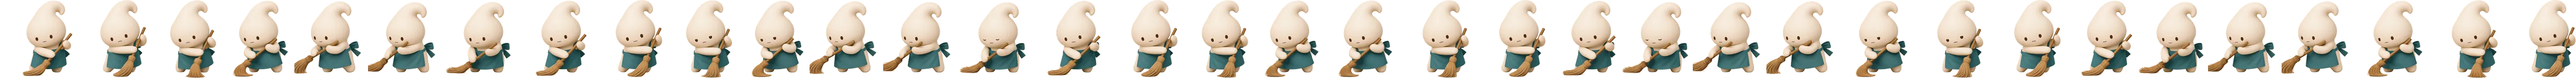
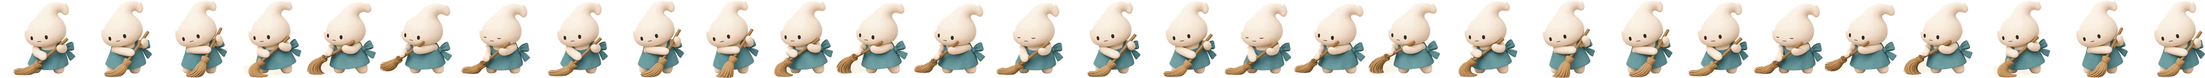
feat: switch the Kamisato mascot to the uncropped sweep animation
Key the background by the GIF's border palette so the bright head top is kept.

diff --git a/src/lib/mascot/assets.ts b/src/lib/mascot/assets.ts
@@ -2,8 +2,8 @@
 // まさゆきさんが地区ごとのしぐさを用意する（2026-11-15 は上郷だけ）。scripts/build-mascot.mjs と画面が使う
 export const MASCOT_DIR = "mascot";
 
-// frameStep：元のコマを何コマに1つ使うか（元は 70コマ・1コマ 80ミリ秒。2コマに1つで35コマ・約200KB。
-// 2026-11-15 の仮の値。まさゆきさんが 35コマと24コマを見比べて決める）
+// frameStep：元のコマを何コマに1つ使うか（上郷は元が 58コマ・1コマ 80ミリ秒。2コマに1つで29コマ・約125KB。
+// 2026-11-15 の仮の値。まさゆきさんが動きを見て決める）
 export const MASCOT_SOURCES = {
   // 上郷：石段をほうきで掃く（地区の目印の石段。くらしの絵の右上の石段に置く）
   "kamisato-sweep": { source: "kamisato-sweep.gif", frameStep: 2 },

diff --git a/src/lib/mascot/sprites.ts b/src/lib/mascot/sprites.ts
@@ -4,9 +4,9 @@ import type { MascotMotionId } from "./assets.ts";
 
 export const MASCOT_SPRITES: Record<MascotMotionId, { frameWidth: number; frameHeight: number; frames: number; frameMs: number }> = {
   "kamisato-sweep": {
-    "frameWidth": 150,
+    "frameWidth": 155,
     "frameHeight": 160,
-    "frames": 35,
+    "frames": 29,
     "frameMs": 160
   }
 };

diff --git a/docs/042_mascot.md b/docs/042_mascot.md
@@ -46,7 +46,8 @@
 
 ## 作ったもの（2026-11-15。上郷のくらし）
 
-- `npm run mascot`（`scripts/build-mascot.mjs`）：`assets/mascot/` の GIF の背景（白に近く黄みの少ない色）を、絵のふちから続くところだけ消し、残った小さな点を消し、全部のコマを同じ範囲で切り出して、横に1列に並べた WebP を `public/mascot/` に書く。大きさとコマ数は `src/lib/mascot/sprites.ts`。上郷は 35コマ・1コマ 150×160・147KB
+- `npm run mascot`（`scripts/build-mascot.mjs`）：`assets/mascot/` の GIF の背景（白に近く黄みの少ない色）を、絵のふちから続くところだけ消し、残った小さな点を消し、全部のコマを同じ範囲で切り出して、横に1列に並べた WebP を `public/mascot/` に書く。大きさとコマ数は `src/lib/mascot/sprites.ts`。上郷は 29コマ・1コマ 155×160・125KB。
+- 背景の消し方（2026-11-15 に差しかえた GIF で直した）：GIF は使う色が少なく、背景はちょうど5色で、頭のてっぺんの明るいところとほとんど同じ色だった。「白っぽい色」の幅で消すと頭まで消えるので、全部のコマのふちに出てくる色だけを背景の色としてふちからたどり、そのまわりのにじみ（背景に近い色）は背景から 14px までだけ消す。背景が一色でない（ふちの色が12色より多い）ときは止める
 - 画面の部品 `src/components/mascot/Mascot.tsx`：くらしの絵（`IllustratedScene`）の上、ピンより下に重ねる。置き場所は `src/lib/mascot/spots.ts`（動きが届いた地区だけ）。絵が小さいので、押せる範囲は絵に重ねた透明なボタンで 44px まで広げる。絵を読み終えるまで出さず（元の色が一瞬見えないように）、読めないとき（圏外でまだ端末にないなど）は出さない
 - `public/illust/` は `npm run illust` が一覧にないファイルを消すので、マスコットは別のフォルダ `public/mascot/` に置いた。Service Worker は生成AIの絵と同じく、使ったときに残す
 - 写真：`~/dear-life-screenshots/2026-11-15-042-mascot-kurashi/`（PC・スマホの春と冬、パレットを開いたところ）
@@ -55,15 +56,15 @@
 
 - [ ] （まさゆきさん）見本の絵が既存のキャラクターに似ていないかを確かめる（Claude が見た限りでは、はっきり似ているものは見つからなかった）
 - [ ] キャラクターの名前を付けるか決める（まさゆきさん。代替テキストやパレットの見出しに使う）
-- [ ] （まさゆきさん）4地区のしぐさのアニメーションを用意する（上の「用意してもらうときのお願い」のとおり。冬などの季節で変えるかもここで決める）→ 2026-11-15 に上郷（`kamisato-sweep.gif`）が届いた。鼎・伊賀良・中心市街地が残り
+- [ ] （まさゆきさん）4地区のしぐさのアニメーションを用意する（上の「用意してもらうときのお願い」のとおり。冬などの季節で変えるかもここで決める）→ 2026-11-15 に上郷（`kamisato-sweep.gif`）が届いた（同日、ほうきの先が切れない版に差しかえ）。鼎・伊賀良・中心市街地が残り
 - [×] 届いたアニメーションを画面用の形（背景を消し、コマを1枚にまとめた WebP）にする手順を作る（`npm run mascot`。2026-11-15。MP4 が届いたら変換の道具を入れる）
-- [ ] 表示する大きさと速さを決める（まさゆきさん確認。今は仮に 35コマ（2コマに1つ）・1コマ160ミリ秒、PC は絵の高さの6.5%（約50px）、スマホは6%（約28px））
+- [ ] 表示する大きさと速さを決める（まさゆきさん確認。今は仮に 29コマ（2コマに1つ）・1コマ160ミリ秒、PC は絵の高さの6.5%（約50px）、スマホは6%（約28px））
 - [×] エプロンの色を置きかえる仕組み（ふちの青緑も残さない。`src/lib/mascot/recolor.ts`。2026-11-15）
 - [ ] パレットの色の数・色を決める（まさゆきさん確認。今は仮に 青緑・赤・黄色・ピンク・紫・紺 の6色）
 - [×] 選んだ色を端末に残す（`dearlife:mascot-apron`。保存できない端末では開いているあいだだけ。2026-11-15）
 - [ ] くらしに置く場所を4地区×季節の絵ごとに決める（ピンと重ならない場所。まさゆきさん確認）→ 上郷は 2026-11-15 に右上の石段の中ほどに仮に置いた（4季節とも同じ）
 - [ ] カルテと地区くらべに置く場所を決める（見本の部品を隠さない。まさゆきさん確認）
-- [ ] ほうきの先が絵の左端で切れるコマがある件：作り直すか、このまま使うか（まさゆきさん）
+- [×] ほうきの先が絵の左端で切れるコマがある件：まさゆきさんが作り直した GIF に差しかえた（2026-11-15）
 - [×] 押したときのパレットの見た目と閉じ方（マスコットの左に、頭の高さから下へ開く。上に開くと季節の切りかえの下にもぐるため。×・Esc・外を押すと閉じる。2026-11-15）
 - [×] 動きを減らす設定では最初のコマで止め、印刷には出さない（2026-11-15）
 - [ ] テスト・lint・typecheck・本番ビルドを通す（2026-11-15 の上郷の分は通した。地区が増えたらまた通す）

diff --git a/assets/mascot/README.md b/assets/mascot/README.md
@@ -6,4 +6,4 @@
 
 | ファイル | 使う場所 | 中身 |
 | --- | --- | --- |
-| `kamisato-sweep.gif` | くらし・上郷の4季節（右上の石段の中ほど） | ほうきで掃く。480×480・70コマ・1コマ80ミリ秒（5.6秒）。背景は白に近いクリーム色。体が左に寄るコマで、ほうきの先が絵の左端で切れる（2026-11-15） |
+| `kamisato-sweep.gif` | くらし・上郷の4季節（右上の石段の中ほど） | ほうきで掃く。480×480・58コマ・1コマ80ミリ秒（約4.6秒）。背景は5色だけのクリーム色で、頭のてっぺんの明るいところとほとんど同じ色。ほうきの先まで絵の中に入っている（2026-11-15 に、ほうきの先が切れていた最初の版から差しかえ。元は `mascot_sweep_flat_loop.gif`） |
